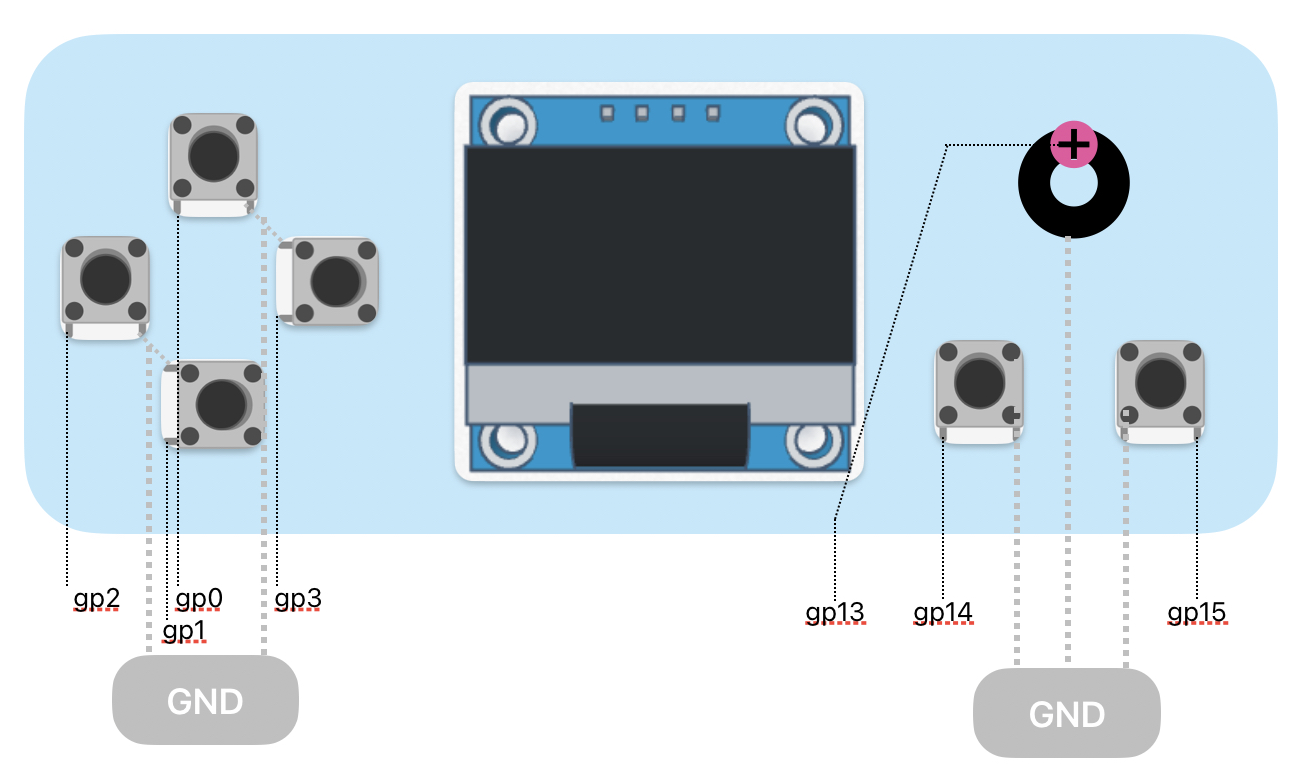
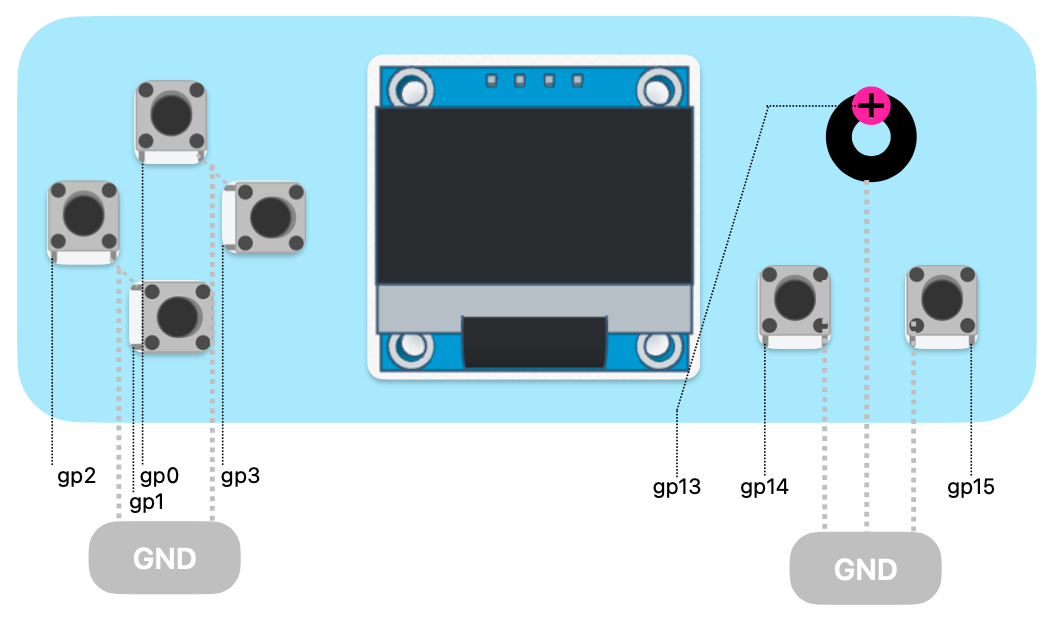
ud pin figure

diff --git a/readme.md b/readme.md
@@ -12,7 +12,7 @@
 	+ M2 , M3 螺絲 = 8 , 4
 1. 配置
 	1. 解銲OLED、根據接線圖銲接 OLED 與 pico
-		+ 接線圖 ![pin](/media/01_oled.png)
+		+ 接線圖 ![pin](/media/01_oledVCC_GND_SDL_SDA.png)
 	1. 放按鈕、蜂鳴器於上層壓克力板、銲接配線、貼膠帶
 		+ 接線圖 ![pin](/media/02_button.png)
 	1. 放 Reset 按鈕於下層、穿過壓克力與 pico 銲接、鎖 M2 螺絲 4 個
